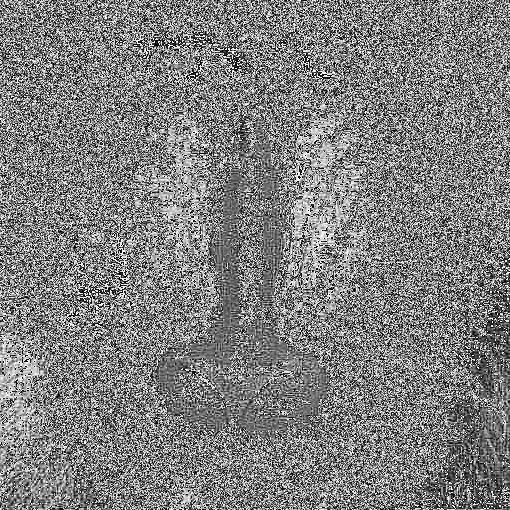
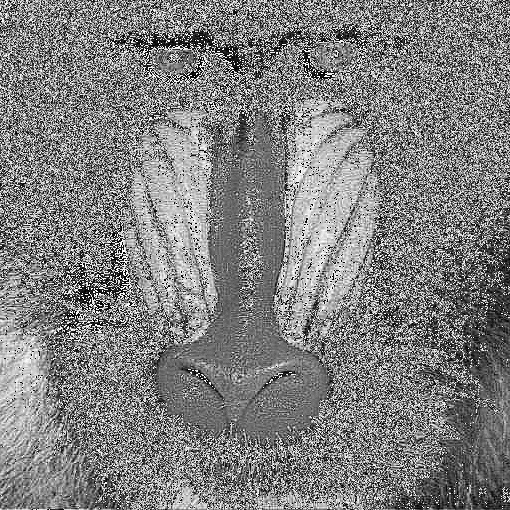
changed highpass convolution kernel to same as lecture slides

diff --git a/LAB2/mandrill_convolve.cpp b/LAB2/mandrill_convolve.cpp
@@ -25,7 +25,11 @@ int main() {
 
   Mat kernel_lowpass = Mat::ones(3, 3, CV_32F);
   Mat kernel_highpass(3, 3, CV_32F, -1);
-  kernel_highpass.at<float>(1,1) = 9;
+  kernel_highpass.at<float>(0,0) = 0;
+  kernel_highpass.at<float>(2,2) = 0;
+  kernel_highpass.at<float>(2,0) = 0;
+  kernel_highpass.at<float>(0,2) = 0;
+  kernel_highpass.at<float>(1,1) = 5;
   
   kernel_highpass = kernel_highpass/(cv::sum( kernel_highpass )[0]);
 
@@ -38,7 +42,7 @@ int main() {
          pixel += image.at<uchar>(y-i,x-j) * kernel_highpass.at<float>(i+1,j+1);
        }
      }
-     image_new.at<uchar>(y-1,x-1) = pixel;
+     image_new.at<uchar>(y-1,x-1) = pixel % 255;
 } }
 
 // // Threshold by looping through all pixels
